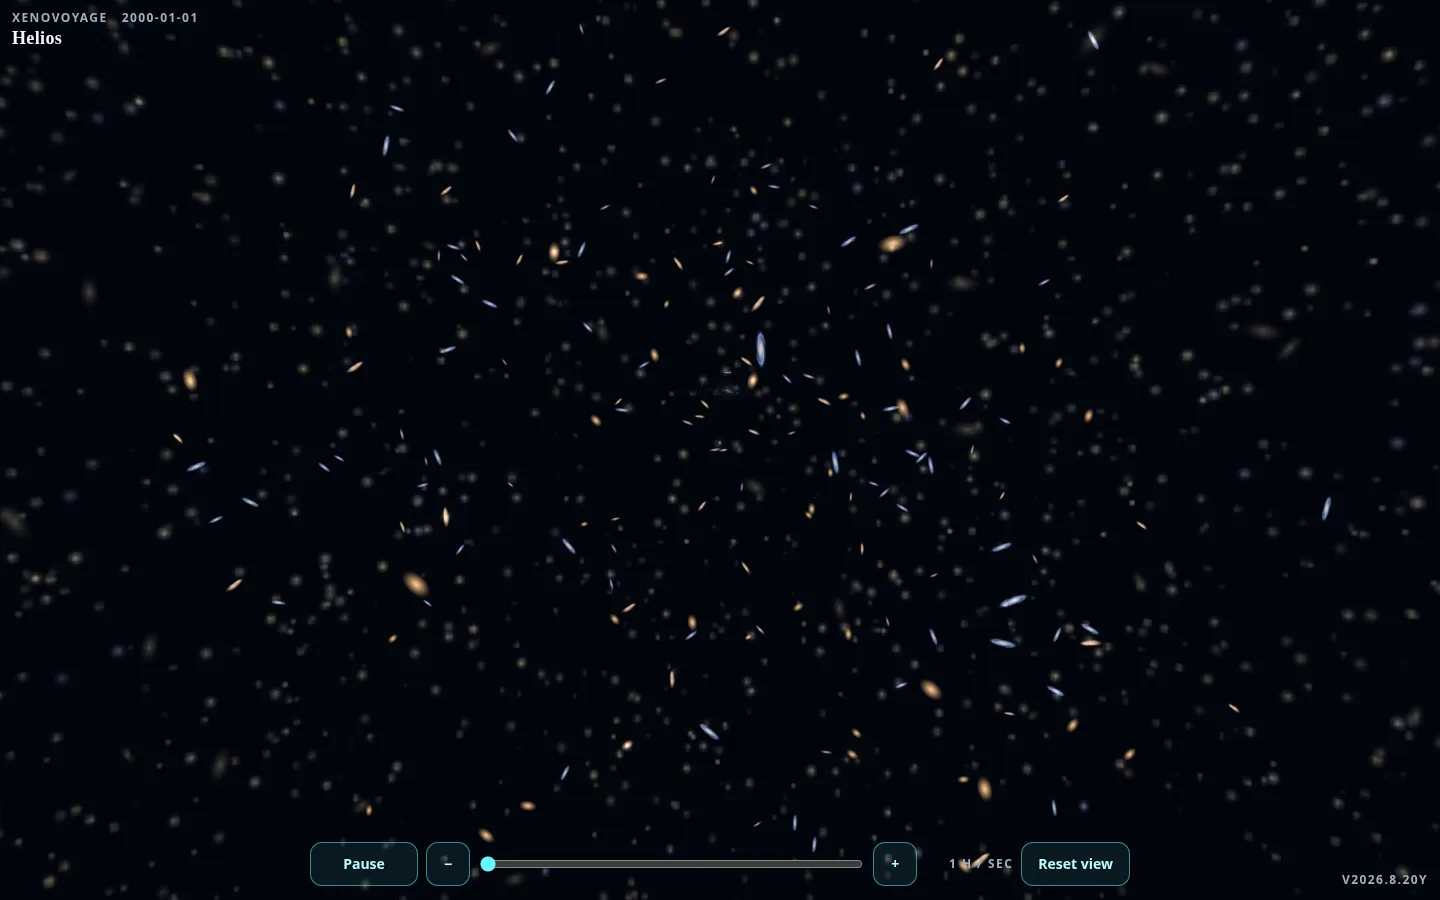
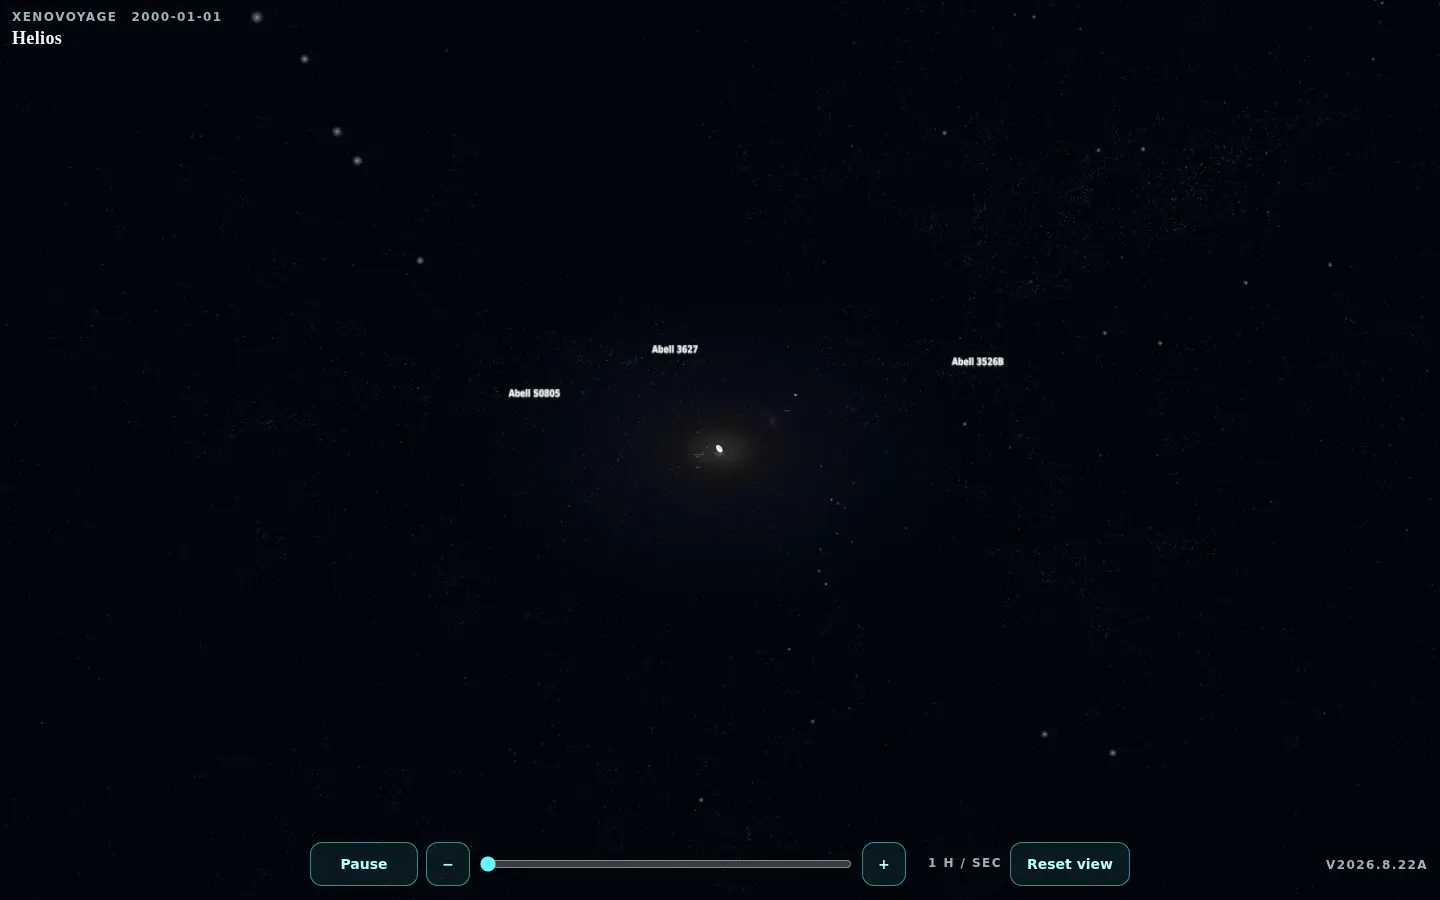
Refresh final evidence and separate Cloud labels

diff --git a/js/galaxy.js b/js/galaxy.js
@@ -159,6 +159,10 @@ export function neighborScenePosition(neighbor) {
   return mapToScene(neighborMapPosition(neighbor));
 }
 
+export function neighborLabelScenePosition(neighbor) {
+  return mapToScene(neighborLabelMapPosition(neighbor));
+}
+
 export function virgoScenePosition(cluster = VIRGO_CLUSTER) {
   return mapToScene(virgoMapPosition(cluster));
 }
@@ -169,6 +173,18 @@ export function webHubScenePosition(item) {
 
 function neighborMapPosition(neighbor) {
   return scaledGalacticMapPosition(neighbor, visualNeighborhood(neighbor.distanceKpc));
+}
+
+function neighborLabelMapPosition(neighbor) {
+  const at = neighborMapPosition(neighbor);
+  const size = neighborApparentSize(neighbor);
+  const aspect = neighbor.id === "m31" ? 0.4 : neighbor.id === "m33" ? 0.46 : 0.68;
+  const lift = size * aspect * 0.72 + 80;
+  // The two long Cloud names otherwise collide in the face-on disk look
+  // after the J2000 frame rotation. Keep their factual positions untouched;
+  // move only the SMC annotation farther along the map's local X axis.
+  const side = neighbor.id === "smc" ? 1200 : neighbor.id === "lmc" ? -80 : neighbor.id === "m31" ? 340 : 0;
+  return { x: at.x + side, y: at.y + lift, z: at.z };
 }
 
 function virgoMapPosition(cluster = VIRGO_CLUSTER) {
@@ -1292,10 +1308,9 @@ function createNeighbors(THREE, group, maps) {
       });
     }
     const label = neighbor.messier ? `${neighbor.name} (${neighbor.messier})` : neighbor.name;
-    const lift = size * aspect * 0.72 + 80;
-    const side = neighbor.id === "smc" ? 180 : neighbor.id === "lmc" ? -80 : neighbor.id === "m31" ? 340 : 0;
+    const labelAt = neighborLabelMapPosition(neighbor);
     const labelScale = neighbor.id === "lmc" || neighbor.id === "smc" ? 7.4 : neighbor.id === "m31" ? 12.5 : 5.2;
-    cluster.add(labelSprite(THREE, label, { x: at.x + side, y: at.y + lift, z: at.z }, labelScale));
+    cluster.add(labelSprite(THREE, label, labelAt, labelScale));
   }
   group.add(cluster);
   group.add(home);

diff --git a/PROVENANCE.md b/PROVENANCE.md
@@ -52,7 +52,7 @@ orrery model rather than claimed simulations.
[5 lines of base64/hex data omitted]
 
 For a family manifest, its listed paths are bytewise-sorted, hashed individually
 with `sha256sum`, and that textual manifest is hashed once with `sha256sum`.
